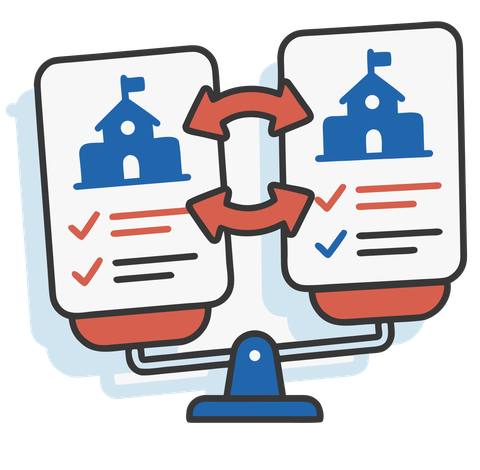
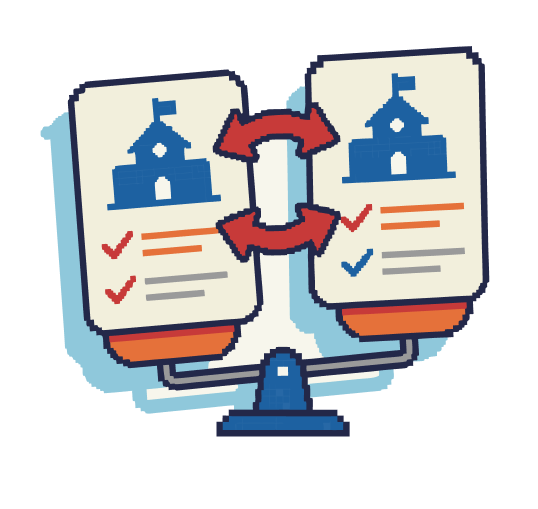
v3: hero pixel art, botones con estados e ilustraciones nuevas
Degradado rdbu-01 a rdbu-10, animación de fondo en bucle (sin el archivo hasta tener permiso del autor), borde inferior pixelado, Test como acción principal y Comparar como secundaria. Ilustraciones de las tres promesas en pixel art.

diff --git a/web-app/components/home/Hero.tsx b/web-app/components/home/Hero.tsx
@@ -1,53 +1,105 @@
-import Link from "next/link";
-import Image from "next/image";
-import type { ReactNode } from "react";
 import Isologo from "@/components/platform/Isologo";
+import { BotonEnlace } from "@/components/ui/Boton";
+import { VideoFondo } from "@/components/home/VideoFondo";
 
 /**
- * Hero de la Home. Composición de fill (frame Figma "Home — Mobile — Lista"):
- *   1. Base sólida `superficie/inversa`.
- *   2. Degradado al 75 %: rdbu-01 (frío) arriba → rdbu-09 (coral) abajo,
- *      unificado con la imagen OG de WhatsApp.
- *   3. Foto de aula al 10 %.
+ * Hero de la Home, v3 (rediseño nov-2026, Figma «Rediseño del hero», nodo
+ * 845:1303).
  *
- * Escritorio (≥ 1024 px): dos columnas. A la izquierda el mensaje y el CTA
- * del Test (sigue siendo el principal, D31); a la derecha, `aside` (la
- * entrada a la exploración). El logo lo pone la barra de navegación.
+ * Capas, de atrás hacia adelante:
+ *   1. Degradado vertical rdbu-01 (frío) → rdbu-10 (cálido extremo).
+ *   2. Animación en pixel art de una sala de clases, en bucle, al 16 %.
+ *   3. Mensaje, bajada y las dos acciones.
+ *   4. Borde inferior pixelado que se deshace hacia la sección siguiente.
+ *
+ * Decisiones de Matías (2026-11-04):
+ * - El pixel art sigue el detalle pixelado del isologo y se asocia con el
+ *   dato. El logo se mantiene como estaba.
+ * - En escritorio el contenido parte a 48 px del borde, fuera de la
+ *   retícula, a propósito. Las demás páginas mantienen la retícula (D38).
+ * - El Test es la acción principal y «Comparar colegios» la secundaria.
+ *
+ * `colorBorde`: clase de color de texto con el fondo de la sección que sigue,
+ * para que el borde pixelado se funda con ella.
  */
-export function Hero({ aside }: { aside?: ReactNode }) {
+export function Hero({ colorBorde = "text-superficie-base" }: { colorBorde?: string }) {
   return (
-    <section className="relative overflow-hidden bg-superficie-inversa text-texto-sobre-oscuro">
-      <div aria-hidden className="absolute inset-0 bg-gradient-to-b from-rdbu-01 to-rdbu-09 opacity-75" />
-      <Image
-        src="/hero-classroom.jpg"
-        alt=""
-        fill
-        priority
-        sizes="100vw"
-        className="object-cover opacity-10"
+    <section className="relative overflow-hidden bg-gradient-to-b from-rdbu-01 to-rdbu-10 text-texto-sobre-oscuro">
+      <VideoFondo
+        src="/hero/aula-pixel.mp4"
+        imagenFija="/hero/aula-pixel.webp"
+        className="pointer-events-none absolute inset-0 h-full w-full object-cover opacity-[0.16] [image-rendering:pixelated]"
       />
-      {/* Retícula: mensaje en columnas 1–6, exploración en 7–12 */}
-      <div className="contenedor relative z-10 pt-xl pb-l lg:grid lg:grid-cols-12 lg:items-center lg:gap-x-xl lg:py-xxl">
-        {/* Tablet: mismo ancho de columna que el resto de la Home, alineada a la izquierda */}
-        <div className="flex flex-col gap-l md:max-w-md lg:col-span-6 lg:max-w-none lg:pr-xl">
+
+      <div className="relative z-10 px-l pb-[96px] pt-xl lg:min-h-[649px] lg:px-xxl lg:pb-[108px] lg:pt-[93px]">
+        <div className="flex flex-col gap-m lg:w-[459px]">
           <div className="lg:hidden">
             <Isologo width={66} priority />
           </div>
-          <div className="flex flex-col gap-xs lg:gap-m">
-            <h1 className="text-xl font-bold lg:max-w-md">Encuentra el colegio que calza con tu familia</h1>
-            <p className="text-sm text-texto-sobre-oscuro-secundario lg:max-w-md">
-              Traducimos datos oficiales en visualizaciones accesibles para tomar decisiones informadas.
-            </p>
+          <h1 className="text-xl font-bold leading-none lg:text-[3rem]">
+            Encuentra el colegio que calza con tu familia
+          </h1>
+          {/* Borrador (2026-11-04): texto por confirmar con Matías. */}
+          <p className="text-sm text-texto-sobre-oscuro-secundario">
+            Edubig reúne los datos oficiales de más de 8.000 colegios de Chile —resultados SIMCE, bienestar de
+            los estudiantes, denuncias y costos— y los traduce a un lenguaje claro. Cada colegio se compara con
+            otros parecidos, nunca en un ranking.
+          </p>
+          <div className="flex flex-col gap-s sm:flex-row lg:justify-between lg:gap-0">
+            <BotonEnlace href="/test" sobreOscuro className="sm:w-[219px]">
+              Hacer el Test de Calce
+            </BotonEnlace>
+            <BotonEnlace href="/comparar" variante="secundario" sobreOscuro className="sm:w-[219px]">
+              Comparar colegios
+            </BotonEnlace>
           </div>
-          <Link
-            href="/test"
-            className="rounded-m bg-interaccion-enlace px-l py-m text-center text-sm font-bold text-texto-sobre-oscuro hover:bg-interaccion-enlace-hover lg:self-start lg:px-xl"
-          >
-            Hacer el Test de Calce
-          </Link>
         </div>
-        {aside && <div className="hidden lg:col-span-6 lg:block">{aside}</div>}
       </div>
+
+      <BordePixelado className={colorBorde} />
     </section>
+  );
+}
+
+/**
+ * Borde inferior pixelado: cinco filas de cuadrados de 12 px que se van
+ * llenando hacia abajo (10 %, 30 %, 55 %, 80 % y 100 %), como el tramado
+ * (dithering) del pixel art. El patrón es fijo —cada cuadro se decide con
+ * un hash de su posición— y se repite cada 384 px. Usa `currentColor`, así
+ * toma el color de `className`.
+ */
+const LADO = 12;
+const COLUMNAS = 32;
+const DENSIDAD = [0.1, 0.3, 0.55, 0.8, 1];
+
+function ruido(col: number, fila: number) {
+  const s = Math.sin(col * 12.9898 + fila * 78.233) * 43758.5453;
+  return s - Math.floor(s);
+}
+
+const CUADROS: Array<[number, number]> = DENSIDAD.flatMap((d, fila) =>
+  Array.from({ length: COLUMNAS }, (_, col) => col)
+    .filter((col) => ruido(col, fila) < d)
+    .map((col): [number, number] => [col * LADO, fila * LADO])
+);
+
+function BordePixelado({ className }: { className?: string }) {
+  const alto = DENSIDAD.length * LADO;
+  return (
+    <svg
+      aria-hidden
+      focusable="false"
+      className={`pointer-events-none absolute inset-x-0 bottom-0 z-10 w-full ${className ?? ""}`}
+      height={alto}
+    >
+      <defs>
+        <pattern id="hero-borde-pixelado" width={COLUMNAS * LADO} height={alto} patternUnits="userSpaceOnUse">
+          {CUADROS.map(([x, y]) => (
+            <rect key={`${x}-${y}`} x={x} y={y} width={LADO} height={LADO} fill="currentColor" />
+          ))}
+        </pattern>
+      </defs>
+      <rect width="100%" height={alto} fill="url(#hero-borde-pixelado)" />
+    </svg>
   );
 }

diff --git a/web-app/components/home/VideoFondo.tsx b/web-app/components/home/VideoFondo.tsx
@@ -1,0 +1,63 @@
+"use client";
+
+import { useEffect, useRef } from "react";
+
+/**
+ * Animación de fondo del hero (v3): pixel art en bucle, decorativa.
+ *
+ * - Se comporta como un GIF: sin controles, silenciada y en bucle. Un
+ *   <video> pesa mucho menos que un GIF equivalente.
+ * - Va oculta para tecnologías de asistencia (aria-hidden) y fuera del orden
+ *   de tabulación.
+ * - Con «reducir movimiento» activado (prefers-reduced-motion) no se
+ *   reproduce: se muestra la imagen fija (`imagenFija`) en su lugar.
+ * - `muted` se fija también por código porque React no siempre escribe el
+ *   atributo, y sin él Safari en iOS no permite la reproducción automática.
+ */
+export function VideoFondo({
+  src,
+  imagenFija,
+  className,
+}: {
+  src: string;
+  imagenFija: string;
+  className?: string;
+}) {
+  const ref = useRef<HTMLVideoElement>(null);
+
+  useEffect(() => {
+    const video = ref.current;
+    if (!video) return;
+    video.muted = true;
+    const reducir = window.matchMedia("(prefers-reduced-motion: reduce)");
+    const aplicar = () => {
+      if (reducir.matches) video.pause();
+      else video.play().catch(() => {});
+    };
+    aplicar();
+    reducir.addEventListener("change", aplicar);
+    return () => reducir.removeEventListener("change", aplicar);
+  }, []);
+
+  return (
+    <>
+      <video
+        ref={ref}
+        src={src}
+        aria-hidden
+        tabIndex={-1}
+        autoPlay
+        muted
+        loop
+        playsInline
+        preload="auto"
+        className={`${className ?? ""} motion-reduce:hidden`}
+      />
+      <div
+        aria-hidden
+        className={`${className ?? ""} hidden bg-cover bg-center motion-reduce:block`}
+        style={{ backgroundImage: `url(${imagenFija})` }}
+      />
+    </>
+  );
+}

diff --git a/web-app/components/ui/Boton.tsx b/web-app/components/ui/Boton.tsx
@@ -1,0 +1,48 @@
+import Link from "next/link";
+import type { ComponentProps } from "react";
+import { cn } from "@/lib/utils";
+
+/**
+ * Botón con forma de enlace (v3, rediseño nov-2026). Un solo patrón para
+ * todo el sitio (D47), con sus cuatro estados: reposo, hover, presionado
+ * (active) y foco.
+ *
+ * Variantes:
+ * - `primario`: la acción principal. Azul de interacción.
+ * - `secundario`: acción alternativa sobre fondo oscuro (hero). Borde y
+ *   texto blancos, sin relleno; en hover y presionado se rellena apenas.
+ *
+ * Foco: la norma del sitio es un contorno de 2 px (globals.css). Sobre fondo
+ * oscuro el azul de foco no alcanza 3:1 contra el fondo (WCAG 1.4.11), así
+ * que con `sobreOscuro` el contorno pasa a blanco.
+ */
+type Variante = "primario" | "secundario";
+
+const BASE =
+  "inline-flex min-h-objetivo-tactil items-center justify-center rounded-m px-l text-xs font-bold transition-colors";
+
+const VARIANTES: Record<Variante, string> = {
+  primario:
+    "bg-interaccion-enlace text-texto-sobre-oscuro hover:bg-interaccion-enlace-hover active:bg-interaccion-enlace-activo",
+  secundario:
+    "border-2 border-texto-sobre-oscuro bg-transparent text-texto-sobre-oscuro hover:bg-white/15 active:bg-white/25",
+};
+
+export function BotonEnlace({
+  variante = "primario",
+  sobreOscuro = false,
+  className,
+  ...props
+}: ComponentProps<typeof Link> & { variante?: Variante; sobreOscuro?: boolean }) {
+  return (
+    <Link
+      {...props}
+      className={cn(
+        BASE,
+        VARIANTES[variante],
+        sobreOscuro && "focus-visible:outline-texto-sobre-oscuro",
+        className
+      )}
+    />
+  );
+}

diff --git a/web-app/components/ui/Ilustracion.tsx b/web-app/components/ui/Ilustracion.tsx
@@ -6,9 +6,13 @@ import { cn } from "@/lib/utils";
  * comparar. Por ahora solo se usan en la Home (decisión de Matías,
  * 2026-10-14), hasta tener ilustraciones propias para cada sección.
  *
- * - Paleta: la escala RdBu del sistema (rdbu-01, 02, 05, 06, 08, 09) más la
- *   tinta gris de los trazos. Son identidad, no codifican datos.
- * - Archivos: public/ilustraciones/<nombre>.png, 480 × 470 con fondo
+ * - v3 (2026-11-04): pixel art, generadas con IA (Nano Banana) bajo la
+ *   dirección de Matías, para seguir el detalle pixelado del isologo. Las
+ *   anteriores (dibujadas por Matías, 2026-10-14) quedan en la etiqueta
+ *   nacional-v2.
+ * - Paleta: la escala RdBu del sistema más la tinta gris de los trazos. Son
+ *   identidad, no codifican datos.
+ * - Archivos: public/ilustraciones/<nombre>.png, 538 × 509 con fondo
  *   transparente, todas con el mismo encuadre para que se vean del mismo
  *   tamaño. next/image las sirve en WebP/AVIF al ancho que se necesita.
  * - Accesibilidad: son decorativas; el texto que las acompaña dice lo mismo,
@@ -35,8 +39,8 @@ export function Ilustracion({
     <Image
       src={`/ilustraciones/${nombre}.png`}
       alt=""
-      width={480}
-      height={470}
+      width={538}
+      height={509}
       sizes={sizes}
       priority={priority}
       className={cn("h-auto shrink-0 select-none", className)}

diff --git a/web-app/app/page.tsx b/web-app/app/page.tsx
@@ -10,10 +10,18 @@ import { Ilustracion, type NombreIlustracion } from "@/components/ui/Ilustracion
 export default function Home() {
   return (
     <>
-      <Hero aside={<EntradaExploracion tarjeta />} />
-      {/* En móvil la exploración va bajo el hero; en escritorio, dentro de él. */}
+      <Hero colorBorde="text-superficie-base lg:text-superficie-hundida" />
+      {/* Provisorio (v3, paso del hero): la exploración queda bajo el hero en
+          todos los anchos hasta que entre el panel «Filtra tu búsqueda». */}
       <div className="lg:hidden">
         <EntradaExploracion />
+      </div>
+      <div className="hidden bg-superficie-hundida lg:block">
+        <div className="contenedor py-xxl">
+          <div className="max-w-md">
+            <EntradaExploracion tarjeta />
+          </div>
+        </div>
       </div>
       <section className="bg-superficie-elevada px-l py-xl lg:px-0 lg:py-xxl">
         {/* Escritorio: tres columnas iguales que van de borde a borde de la
